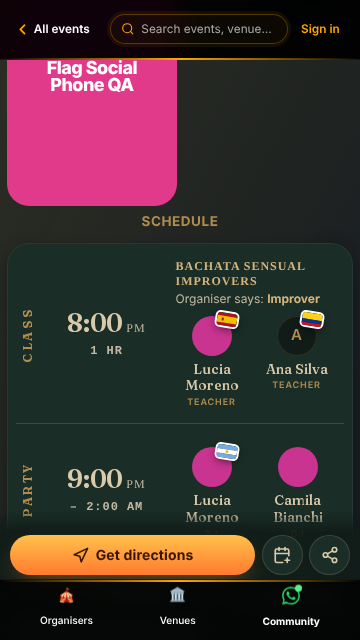
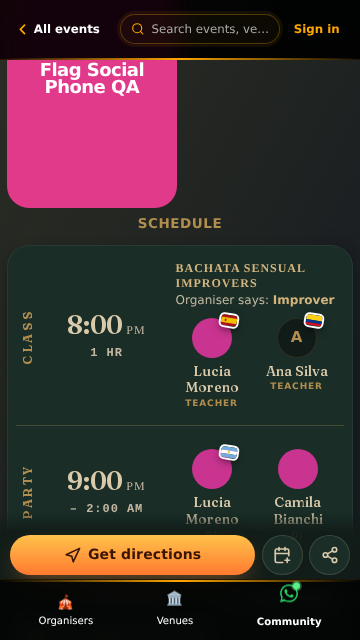
feat(people): smaller sticker on 28-47px photos (owner decision, round 3)
stickerSize (the one size rule) now gives photos 28-47px the same sticker
scaled down: max(14, round(photo * 0.4)), so 36px header-search rows get 14px
(was 20) and the sticker covers 0.14 of the photo (was 0.30). 48px and up are
unchanged (46%, min 20px). Same tilt, edge, shadow and position.

- Unit + matrix tables over 27..96px; proved red on the old rule (12 failed).
- Phone spec: per-surface sticker width, 14px floor, header-search cover
  <= 0.25, logged text clearance; red on the old rule (6), 32/32 green.
- mr-[5px] kept: measured 3.2px name clearance without it, 8.2px with it
  (the sticker is right-anchored, so shrinking it does not move its right edge).
- 14px readability sheet for the 11 prod codes; screenshots retaken for
  header-search, dancers, event-programme; handover updated.

Claude-Session: https://claude.ai/code/session_01S3Q5uc3mhs97WijqfMGhDi

diff --git a/tests/e2e-phone/people-nationality-flag.phone.spec.ts b/tests/e2e-phone/people-nationality-flag.phone.spec.ts
@@ -20,7 +20,9 @@ import {
  *   - it covers no VISIBLE text (the person's name, a role; text hidden under an
  *     opaque panel is not covered) and no neighbouring sticker;
  *   - a tap at its centre goes through to the photo's link (pointer-events: none);
- *   - nothing animates; no sideways page scroll.
+ *   - nothing animates; no sideways page scroll;
+ *   - its width is the one stickerSize gives that surface's photo (14px on the 36px
+ *     header-search rows, which it covers at most 25% of; 20px+ on 48px+ photos).
  * A photo under 28px (/vendors/:id team) gets no sticker: the country is on the photo
  * (role img, aria-label, title) instead.
  * Measured numbers are logged ([sticker ...]) for the PR. SHOTS=<dir> writes screenshots.
@@ -46,25 +48,36 @@ type Surface = {
   open?: (page: Page) => Promise<void>;
   /** The photo is under 28px: NO sticker (owner decision 2026-10-13); the country is the photo's label and title. */
   tooSmall?: boolean;
+  /**
+   * The sticker width (CSS px) stickerSize gives this surface's `size`: 28-47px photos get
+   * the small sticker (40%, at least 14px), 48px and up 46%, at least 20px (owner decision
+   * 2026-10-13, round 3). Pinned per surface so a surface that drifts to the other band is red.
+   */
+  stickerPx?: number;
+  /** Most of the photo's area the sticker box (with its edge) may cover. Default 0.4. */
+  maxCover?: number;
 };
 
 const SURFACES: Surface[] = [
-  { key: 'djs', name: '/djs list (64px)', url: '/djs', codes: codesOf(FLAG_PEOPLE) },
-  { key: 'teachers', name: '/teachers list (56px)', url: '/teachers', codes: codesOf(FLAG_PEOPLE.slice(0, 40)) },
-  { key: 'dancers', name: '/dancers list (32px)', url: '/dancers', codes: storedCodes(FLAG_PEOPLE.slice(0, 30)) },
-  { key: 'all-profiles', name: '/all-profiles cards (inset)', url: '/all-profiles', codes: null },
-  { key: 'videographers', name: '/videographers cards (inset)', url: '/videographers', codes: null },
+  { key: 'djs', name: '/djs list (64px)', url: '/djs', codes: codesOf(FLAG_PEOPLE), stickerPx: 29 },
+  { key: 'teachers', name: '/teachers list (56px)', url: '/teachers', codes: codesOf(FLAG_PEOPLE.slice(0, 40)), stickerPx: 26 },
+  { key: 'dancers', name: '/dancers list (32px)', url: '/dancers', codes: storedCodes(FLAG_PEOPLE.slice(0, 30)), stickerPx: 14 },
+  { key: 'all-profiles', name: '/all-profiles cards (inset)', url: '/all-profiles', codes: null, stickerPx: 22 },
+  { key: 'videographers', name: '/videographers cards (inset)', url: '/videographers', codes: null, stickerPx: 22 },
   { key: 'vendor-team', name: '/vendors/:id team (20px, no sticker)', url: `/vendors/${VENDOR_ID}`, codes: codesOf(FLAG_PEOPLE.slice(0, 9)), tooSmall: true },
-  { key: 'practice-partners', name: '/practice-partners (56px, signed in)', url: '/practice-partners', opts: { signedInAsOwner: true }, codes: storedCodes(FLAG_PEOPLE.slice(0, 30)) },
-  { key: 'dj-hero', name: '/djs/:id hero (132px)', url: `/djs/${FLAG_DJ_ID}`, codes: ['ES'] },
-  { key: 'dancer-hero', name: '/dancers/:id hero (inset)', url: `/dancers/${FLAG_DANCER_ID}`, codes: ['ES'] },
-  { key: 'event-programme', name: '/event/:id programme (PersonChip)', url: `/event/${FLAG_EVENT_SLUG}`, codes: FLAG_PROGRAMME_CODES },
-  { key: 'festival-headliners', name: '/festival/:id headliners (inset)', url: `/festival/${FLAG_FESTIVAL_SLUG}`, codes: codesOf(FLAG_FESTIVAL_HEADLINERS) },
+  { key: 'practice-partners', name: '/practice-partners (56px, signed in)', url: '/practice-partners', opts: { signedInAsOwner: true }, codes: storedCodes(FLAG_PEOPLE.slice(0, 30)), stickerPx: 26 },
+  { key: 'dj-hero', name: '/djs/:id hero (132px)', url: `/djs/${FLAG_DJ_ID}`, codes: ['ES'], stickerPx: 61 },
+  { key: 'dancer-hero', name: '/dancers/:id hero (inset)', url: `/dancers/${FLAG_DANCER_ID}`, codes: ['ES'], stickerPx: 22 },
+  { key: 'event-programme', name: '/event/:id programme (PersonChip)', url: `/event/${FLAG_EVENT_SLUG}`, codes: FLAG_PROGRAMME_CODES, stickerPx: 16 },
+  { key: 'festival-headliners', name: '/festival/:id headliners (inset)', url: `/festival/${FLAG_FESTIVAL_SLUG}`, codes: codesOf(FLAG_FESTIVAL_HEADLINERS), stickerPx: 22 },
   {
     key: 'header-search',
     name: 'header search rows (36px)',
     url: '/djs',
     codes: null,
+    stickerPx: 14,
+    // Owner feedback 2026-10-13: the 20px sticker covered over half this photo.
+    maxCover: 0.25,
     open: async (page) => {
       // Only the header's search: /djs's own stickers are out of the way under the open panel.
       await page.locator('button[aria-label="Search events, venues, people"]').first().click();
@@ -72,9 +85,9 @@ const SURFACES: Surface[] = [
       await page.locator('#omnibox-listbox [data-nationality-flag]').first().waitFor();
     },
   },
-  { key: 'search', name: '/search result cards (inset)', url: '/search?q=a', codes: null },
-  { key: 'organiser-team', name: '/organisers/:id Teachers & DJs (80px)', url: `/organisers/${ORG3_SLUG}`, codes: ORG3_TEAM_CODES },
-  { key: 'account', name: '/account dancer home (56px, own photo)', url: '/account', opts: { signedInAsOwner: true, asDancer: FLAG_DANCER_ID }, codes: ['ES'] },
+  { key: 'search', name: '/search result cards (inset)', url: '/search?q=a', codes: null, stickerPx: 22 },
+  { key: 'organiser-team', name: '/organisers/:id Teachers & DJs (80px)', url: `/organisers/${ORG3_SLUG}`, codes: ORG3_TEAM_CODES, stickerPx: 37 },
+  { key: 'account', name: '/account dancer home (56px, own photo)', url: '/account', opts: { signedInAsOwner: true, asDancer: FLAG_DANCER_ID }, codes: ['ES'], stickerPx: 26 },
 ];
 
 type StickerAudit = {
@@ -93,6 +106,8 @@ type StickerAudit = {
   clippedPx: number;
   clippedBy: string;
   textOverlap: { text: string; px: number }[];
+  /** Horizontal gap (px) from the sticker box (with its edge) to the nearest visible text level with it, on its right. */
+  textClearance: number;
   stickerOverlap: number;
   throughTo: string;
 };
@@ -140,6 +155,7 @@ function auditStickers(scope: string): StickerAudit[] {
       }
     }
     const textOverlap: { text: string; px: number }[] = [];
+    let textClearance = Infinity;
     const walker = document.createTreeWalker(document.body, NodeFilter.SHOW_TEXT);
     for (let n = walker.nextNode(); n; n = walker.nextNode()) {
       const t = (n.textContent ?? '').trim();
@@ -147,6 +163,11 @@ function auditStickers(scope: string): StickerAudit[] {
       const range = document.createRange();
       range.selectNodeContents(n);
       for (const rr of Array.from(range.getClientRects())) {
+        if (rr.bottom > s.t && rr.top < s.b && rr.left >= s.l && rr.left - s.r < textClearance) {
+          // Visible text only (same test as below), at the text's own centre.
+          const seen = document.elementFromPoint((rr.left + rr.right) / 2, (rr.top + rr.bottom) / 2);
+          if (!seen || seen.contains(n) || n.parentElement.contains(seen)) textClearance = rr.left - s.r;
+        }
         const px = inter(s, { l: rr.left, t: rr.top, r: rr.right, b: rr.bottom });
         if (px <= 0.5) continue;
         // Only text a person can SEE there: text under an opaque panel (the /djs hero
@@ -180,6 +201,7 @@ function auditStickers(scope: string): StickerAudit[] {
       clippedPx: Math.round(clippedPx * 10) / 10,
       clippedBy,
       textOverlap,
+      textClearance: Math.round(textClearance * 10) / 10,
       stickerOverlap: Math.round(stickerOverlap),
       throughTo: at && el.contains(at) ? 'STICKER' : link ? `${link.tagName.toLowerCase()}:${link.getAttribute('href') ?? ''}` : at ? at.tagName.toLowerCase() : 'nothing',
     });
@@ -240,9 +262,10 @@ for (const vp of SIZES) {
         else expect(all.length).toBeGreaterThan(0);
 
         const max = (k: 'offScreen' | 'clippedPx' | 'photoCover' | 'stickerOverlap') => Math.max(...all.map((f) => f[k]));
+        const clearance = Math.min(...all.map((f) => f.textClearance));
         const line = `[sticker ${s.key} ${vp.width}x${vp.height}] n=${all.length} sticker=${all[0].stickerW}px box=${all[0].w}x${all[0].h} photo=${all[0].photo}px ` +
           `cover=${max('photoCover')} offScreen=${max('offScreen')} clipped=${max('clippedPx')}${all.find((f) => f.clippedPx)?.clippedBy ? ` by ${all.find((f) => f.clippedPx)!.clippedBy}` : ''} ` +
-          `textOverlap=${all.reduce((n, f) => n + f.textOverlap.length, 0)} neighbour=${max('stickerOverlap')}`;
+          `textOverlap=${all.reduce((n, f) => n + f.textOverlap.length, 0)} textClearance=${Number.isFinite(clearance) ? clearance : '-'} neighbour=${max('stickerOverlap')}`;
         console.log(line);
         test.info().annotations.push({ type: 'sticker', description: line });
 
@@ -252,13 +275,14 @@ for (const vp of SIZES) {
           expect(f.title, `title ${at}`).toBe(country.of(f.code));
           expect(f.pe, `never takes a tap (${at})`).toBe('none');
           expect(f.animations, `static (${at})`).toBe(0);
-          expect(f.stickerW, `at least 20px wide, so the stripes read (${at})`).toBeGreaterThanOrEqual(20);
+          expect(f.stickerW, `the stickerSize width for this surface's photo (${at})`).toBe(s.stickerPx);
+          expect(f.stickerW, `at least 14px wide, so the stripes read (${at})`).toBeGreaterThanOrEqual(14);
           expect(f.offScreen, `fully on screen (${at})`).toBe(0);
           expect(f.clippedPx, `not clipped by ${f.clippedBy} (${at})`).toBe(0);
           expect(f.textOverlap, `covers no text (${at})`).toEqual([]);
           expect(f.stickerOverlap, `clear of the neighbouring sticker (${at})`).toBe(0);
           expect(f.throughTo, `a tap goes through (${at})`).not.toBe('STICKER');
-          expect(f.photoCover, `covers only the corner (${at})`).toBeLessThanOrEqual(0.4);
+          expect(f.photoCover, `covers only the corner (${at})`).toBeLessThanOrEqual(s.maxCover ?? 0.4);
         }
         // A tap on a linked photo's sticker lands on that photo's link.
         if (s.key === 'djs') expect(all[0].throughTo).toBe(`a:/djs/${FLAG_PEOPLE[0].id}`);

diff --git a/src/components/people/NationalityFlag.tsx b/src/components/people/NationalityFlag.tsx
@@ -5,6 +5,8 @@
  *
  * - No flag at all when the code is null, empty, malformed or not a country (see
  *   nationality.ts): renders nothing, so there is no placeholder and no gap.
+ * - Size: stickerSize, the one rule (28-47px photos get the small sticker, 40% and at
+ *   least 14px; 48px and up 46% and at least 20px).
  * - No sticker on a photo under MIN_FLAG_PHOTO_PX (28px): the caller puts
  *   smallPhotoNationalityProps on the photo, so the country is still its label and title.
  * - pointer-events: none, so it never takes a tap meant for the photo or a control.
@@ -28,9 +30,18 @@ export type FlagPlacement = 'corner' | 'inset';
 /** The `size` to pass for an `inset` flag on a large card photo (gives a 22px sticker). */
 export const TILE_FLAG_SIZE = 48;
 
-/** Smallest sticker width in CSS px: below this the stripes stop reading. */
+/** Smallest sticker width in CSS px on a photo of 48px and up. */
 export const MIN_STICKER_PX = 20;
 
+/**
+ * Largest photo (CSS px) that gets the SMALL sticker: 28-47px photos (header search and
+ * Cmd+K rows 36px, list rows 40px) get the same sticker scaled down (owner decision
+ * 2026-10-13, round 3), so it no longer covers half the photo.
+ */
+export const SMALL_PHOTO_MAX_PX = 47;
+
+/** Smallest small-sticker width in CSS px: the 11 prod codes still read at 14px. */
+export const MIN_SMALL_STICKER_PX = 14;
 
 export interface NationalityFlagProps {
   /** nationality_code from a public read (or a stored nationality); anything is accepted. */
@@ -43,9 +54,16 @@ export interface NationalityFlagProps {
   className?: string;
 }
 
-/** Sticker width and height (CSS px) for a photo of `size` px: 46% of the photo, at least 20px, 3:2. */
+/**
+ * Sticker width and height (CSS px) for a photo of `size` px, 3:2. THE size rule for every
+ * surface: 28-47px photos 40% of the photo, at least 14px; 48px and up 46%, at least 20px.
+ * (Under MIN_FLAG_PHOTO_PX NationalityFlag renders nothing.)
+ */
 export function stickerSize(size: number): { w: number; h: number } {
-  const w = Math.max(MIN_STICKER_PX, Math.round(Math.max(0, size) * 0.46));
+  const photo = Math.max(0, size);
+  const w = photo <= SMALL_PHOTO_MAX_PX
+    ? Math.max(MIN_SMALL_STICKER_PX, Math.round(photo * 0.4))
+    : Math.max(MIN_STICKER_PX, Math.round(photo * 0.46));
   return { w, h: Math.round(((w * 2) / 3) * 100) / 100 };
 }
 

diff --git a/src/components/people/__tests__/nationalityFlag.surfaces.matrix.test.tsx b/src/components/people/__tests__/nationalityFlag.surfaces.matrix.test.tsx
@@ -369,10 +369,29 @@ describe('placement (Sticker spec)', () => {
     expect(f.style.width).toBe('44px');
     expect(stickerSize(96)).toEqual({ w: 44, h: 29.33 });
   });
-  it('never narrower than 20px (28px and 40px photos)', () => {
-    expect(stickerSize(28)).toEqual({ w: 20, h: 13.33 });
-    expect(stickerSize(40)).toEqual({ w: 20, h: 13.33 });
-    expect(stickerSize(56).w).toBe(26);
+  // Owner decision 2026-10-13 (round 3): photos 28-47px get the SAME sticker scaled down
+  // (40% of the photo, at least 14px); 48px and up are unchanged (46%, at least 20px).
+  it.each([
+    // [photo px, sticker w, sticker h, where it is used]
+    [28, 14, 9.33, 'PersonChip sm'],
+    [32, 14, 9.33, '/dancers list'],
+    [36, 14, 9.33, 'header search, Cmd+K overlay'],
+    [40, 16, 10.67, 'PersonChip md (event programme)'],
+    [44, 18, 12, '-'],
+    [47, 19, 12.67, 'last small size'],
+    [48, 22, 14.67, 'TILE_FLAG_SIZE (inset cards)'],
+    [56, 26, 17.33, '/teachers, /practice-partners, /account'],
+    [64, 29, 19.33, '/djs list'],
+  ])('a %ipx photo gets a %ipx x %spx sticker (%s), same tilt, edge, shadow and position', (photo, w, h) => {
+    expect(stickerSize(photo)).toEqual({ w, h });
+    const { container } = flagFor('ES', photo);
+    const f = container.querySelector<HTMLElement>('[data-nationality-flag]')!;
+    expect(f.style.width).toBe(`${w}px`);
+    expect(f.style.height).toBe(`${h}px`);
+    expect(f.style.top).toBe('-6%');
+    expect(f.style.right).toBe('-14%');
+    expect(f.style.transform).toBe('rotate(9deg)');
+    expect(f.style.boxShadow).toMatch(/^0(px)? 0(px)? 0(px)? 2px (#fff|rgb\(255, 255, 255\))/);
   });
   it('no sticker under 28px; the photo props carry the country instead (owner decision 2026-10-13)', () => {
     expect(MIN_FLAG_PHOTO_PX).toBe(28);

diff --git a/src/components/people/__tests__/nationalityFlag.unit.test.ts b/src/components/people/__tests__/nationalityFlag.unit.test.ts
@@ -7,6 +7,7 @@
 import { describe, expect, it } from 'vitest';
 import { nationalityLabel, normaliseNationalityCode, pickNationalityCode } from '../nationality';
 import { FLAG_ART, flagArtMarkup, genericFlagArt, hasFlagArt } from '../flagArt';
+import { MIN_SMALL_STICKER_PX, MIN_STICKER_PX, SMALL_PHOTO_MAX_PX, stickerSize } from '../NationalityFlag';
 
 const PROD_CODES = ['ES', 'CO', 'AR', 'EC', 'BO', 'ZA', 'IT', 'VE', 'GB', 'DE', 'CY'];
 
@@ -79,3 +80,28 @@ describe('flag artwork', () => {
   });
 });
 
+
+describe('stickerSize (the one size rule, every surface)', () => {
+  // Owner decision 2026-10-13: under 28px no sticker (NationalityFlag renders nothing);
+  // 28-47px: max(14, round(photo * 0.4)); 48px and up: max(20, round(photo * 0.46)); 3:2.
+  it.each([
+    [27, 14, 9.33], // never rendered (under 28px), but the rule stays total
+    [28, 14, 9.33],
+    [36, 14, 9.33],
+    [40, 16, 10.67],
+    [47, 19, 12.67],
+    [48, 22, 14.67],
+    [56, 26, 17.33],
+    [96, 44, 29.33],
+  ])('%ipx photo -> %ipx x %spx', (photo, w, h) => {
+    expect(stickerSize(photo)).toEqual({ w, h });
+  });
+  it('the band edges are the pinned constants', () => {
+    expect(SMALL_PHOTO_MAX_PX).toBe(47);
+    expect(MIN_SMALL_STICKER_PX).toBe(14);
+    expect(MIN_STICKER_PX).toBe(20);
+  });
+  it('a small photo never gets a bigger sticker than the first big one', () => {
+    for (let p = 28; p <= SMALL_PHOTO_MAX_PX; p++) expect(stickerSize(p).w).toBeLessThan(stickerSize(48).w);
+  });
+});

diff --git a/src/components/people/flagArt.ts b/src/components/people/flagArt.ts
@@ -1,7 +1,7 @@
 /**
  * Flag artwork for the nationality badge, bundled inline: no network call, no CDN.
  *
- * Simplified artwork on a 30x20 grid, drawn at 20-44px wide as a sticker, so coats of
+ * Simplified artwork on a 30x20 grid, drawn at 14-61px wide as a sticker, so coats of
  * arms are reduced to a plain emblem. Covers every code in use on
  * production (survey 2026-10-12: ES CO AR EC BO ZA IT VE GB DE CY) plus the nationalities
  * most likely next; any other valid code gets the generic flag with its two letters.

diff --git a/docs/session-handover-2026-10-12-people-nationality-flags.md b/docs/session-handover-2026-10-12-people-nationality-flags.md
@@ -56,12 +56,45 @@ Branch: `feat/people-nationality-flags`, PR #740.
   same markup on every surface), phone spec
   `people-nationality-flag.phone.spec.ts` (15 surfaces + the owner pencil, at 390x844 and 360x640: count and codes,
   label/title, on screen, not clipped by any overflow ancestor, no text or neighbouring sticker covered, tap goes
-  through, no animation, >= 20px; /vendors/:id: no sticker, label and title on each photo). The phone fake (`tests/e2e-phone/fakeSupabase.mjs`) now serves every one of the
+  through, no animation, the stickerSize width per surface; /vendors/:id: no sticker, label and title on each photo). The phone fake (`tests/e2e-phone/fakeSupabase.mjs`) now serves every one of the
   15 surfaces; the phone config turns on `VITE_ENABLE_TEACHERS_DIRECTORY` (it only gates /teachers).
   Screenshots: `docs/screenshots/nationality-flags/<surface>-<size>.png`. header-search and vendor-team were retaken 2026-10-13 under CI's fonts (DejaVu fallback).
 - **Bundle**: the merge of main took main's parties/classes budget of 325 KB (#739). This branch's earlier 321 KB
   bump is gone with it. Measured after the swap: /parties 320.1 KB, /classes 320.2 KB (main 320.0 / 320.1), /event
   379.7 KB of 380 (main 379.1). The flag stays out of first load (lazy in HeaderSearch and PersonChip).
+
+- **Smaller sticker on small photos (owner decision 2026-10-13, round 3)**, after the owner saw the 20px sticker cover
+  over half a 36px header-search photo on desktop. `stickerSize` (still the one rule, `NationalityFlag.tsx`):
+  photos 28-47px get `max(14, round(photo * 0.4))` (`SMALL_PHOTO_MAX_PX = 47`, `MIN_SMALL_STICKER_PX = 14`);
+  48px and up unchanged (46%, at least 20px). Same tilt, edge, shadow and position. Measured (phone spec, CI fonts,
+  390x844 / 360x640):
+
+  | Surface | `size` | rendered photo | sticker | photo cover | text clearance |
+  |---|---|---|---|---|---|
+  | header search rows (Cmd+K same markup) | 36 | 31 / 30px | 14px (was 20) | 0.14 (was 0.30) | 8.3 / 8.2px |
+  | /dancers list | 32 | 27px | 14px (was 20) | 0.19 (was 0.39-0.40) | - |
+  | /event programme (PersonChip md) | 40 | 40px | 16px (was 20) | 0.09 (was 0.16) | - |
+  | /teachers, /practice-partners, /account | 56 | 47-56px | 26px | 0.12-0.19 | unchanged |
+  | /djs list | 64 | 54px | 29px | 0.17 | unchanged |
+  | inset cards (all-profiles, videographers, dancer hero, festival, /search) | 48 | - | 22px | <= 0.04 | unchanged |
+  | /organisers/:id team | 80 | 95-105px | 37px | 0.05-0.07 | unchanged |
+  | /djs/:id hero | 132 | 132px | 61px | 0.11 | unchanged |
+
+  "Photo cover" is the sticker's tilted box plus its 2px edge over the photo's square box (conservative).
+  - **`mr-[5px]` kept, measured**: the sticker is anchored at right -14%, so a smaller one shrinks leftwards and its
+    right edge does not move. Without the margin the header-search sticker is 3.2 / 3.3px from the name (the same
+    tight gap the margin was added for); with it 8.2 / 8.3px. The spec now logs `textClearance`.
+  - **Readability at 14px** (`docs/screenshots/nationality-flags/flags-14px-dpr1.png` and `-dpr3.png`): ES, AR, BO,
+    IT, DE, ZA and GB read on a 3x phone screen (GB is mush at 1x). **CO, EC and VE are hard to tell apart** (same
+    yellow / blue / red bands; the EC emblem is a dot and the VE stars vanish at 14px; CO vs EC is hard even at
+    26px). **CY is faint**: a mostly white flag on a white edge, the copper island a smudge. The title / aria-label
+    still name the country.
+  - **Tests**: `stickerSize` table (27 28 36 40 47 48 56 96) in `nationalityFlag.unit.test.ts`; the matrix test
+    renders every band row through `NationalityFlag`. Proved red on the old rule (12 failed: every 27-47px row and
+    the constants) and green on the new. Phone spec: per-surface `stickerPx` (the width stickerSize gives that
+    surface), a 14px floor, header-search cover <= 0.25; red on the old rule (6 failed: header search, /dancers,
+    programme, at both sizes), 32/32 green on the new. Screenshots retaken (CI fonts) for header-search, dancers,
+    event-programme.
 
 ## Open
 - Backend option: have `event_view_p5` legacy_compat emit `nationality_code` (admin) so the programme needs no
